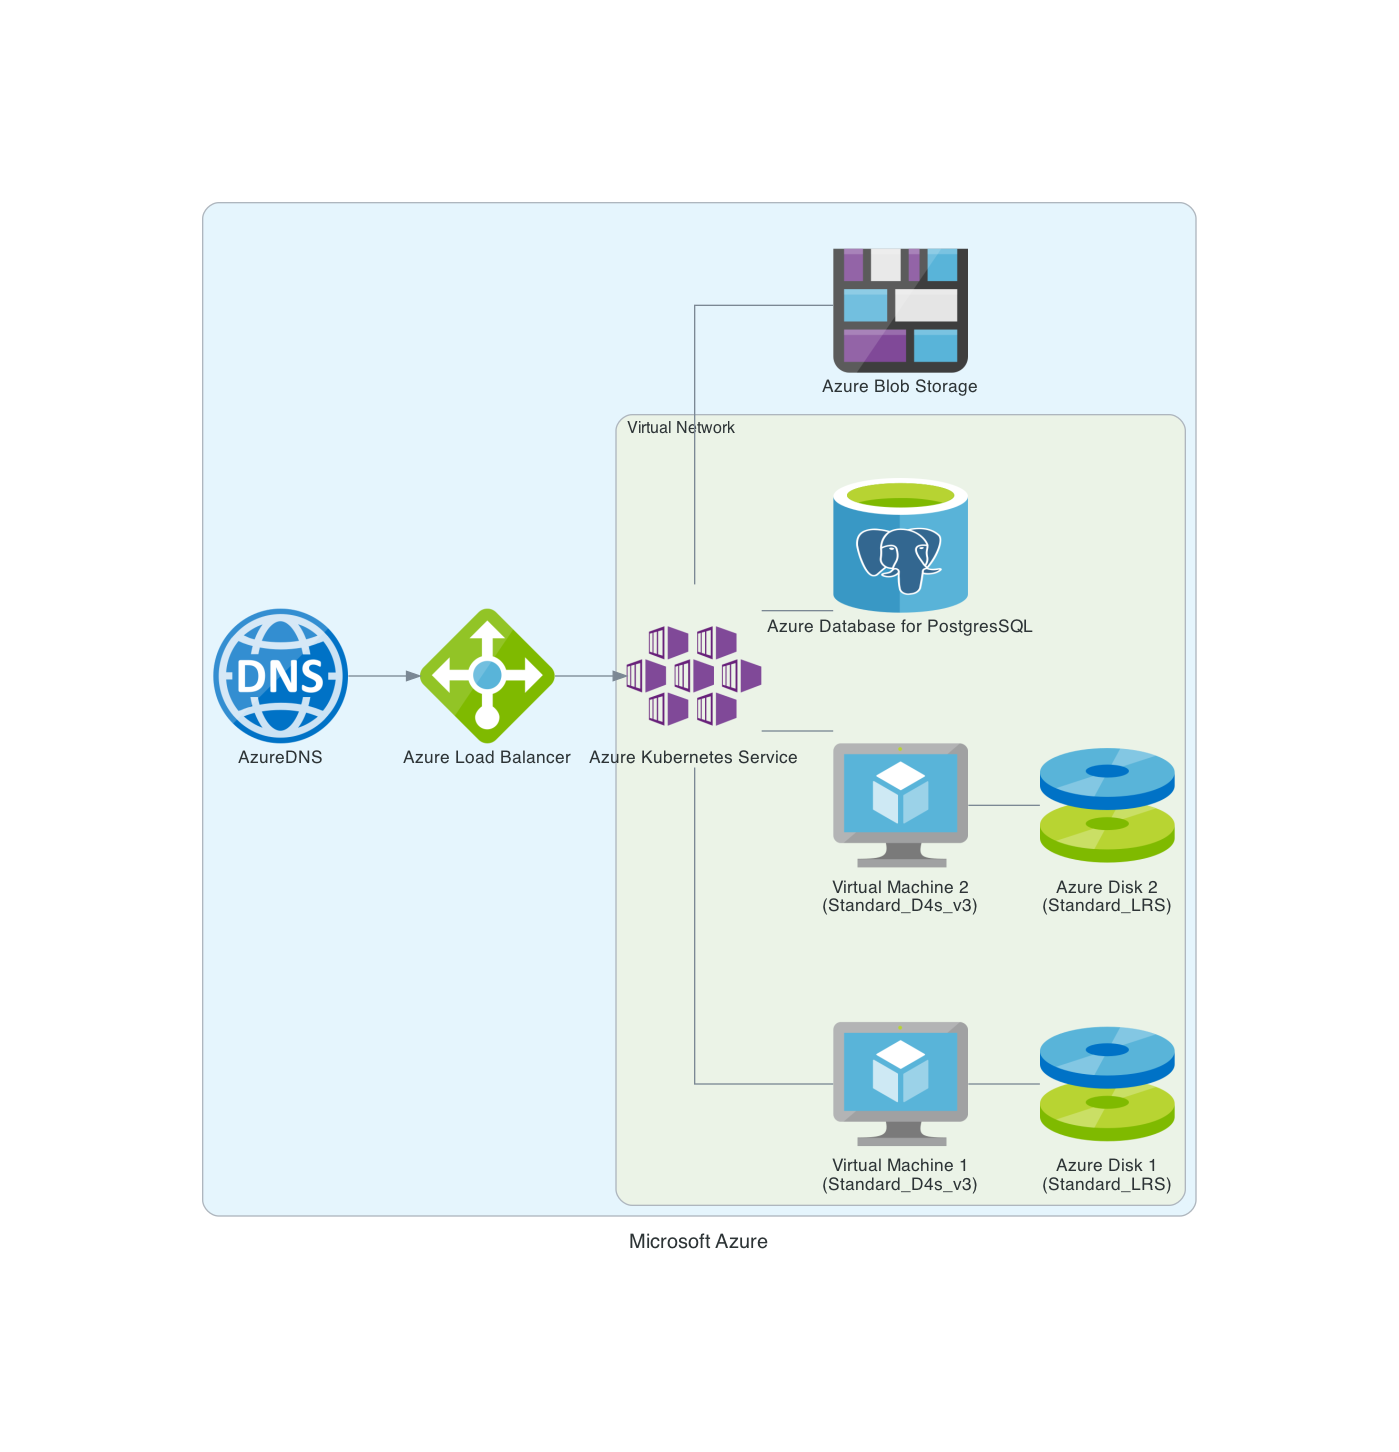
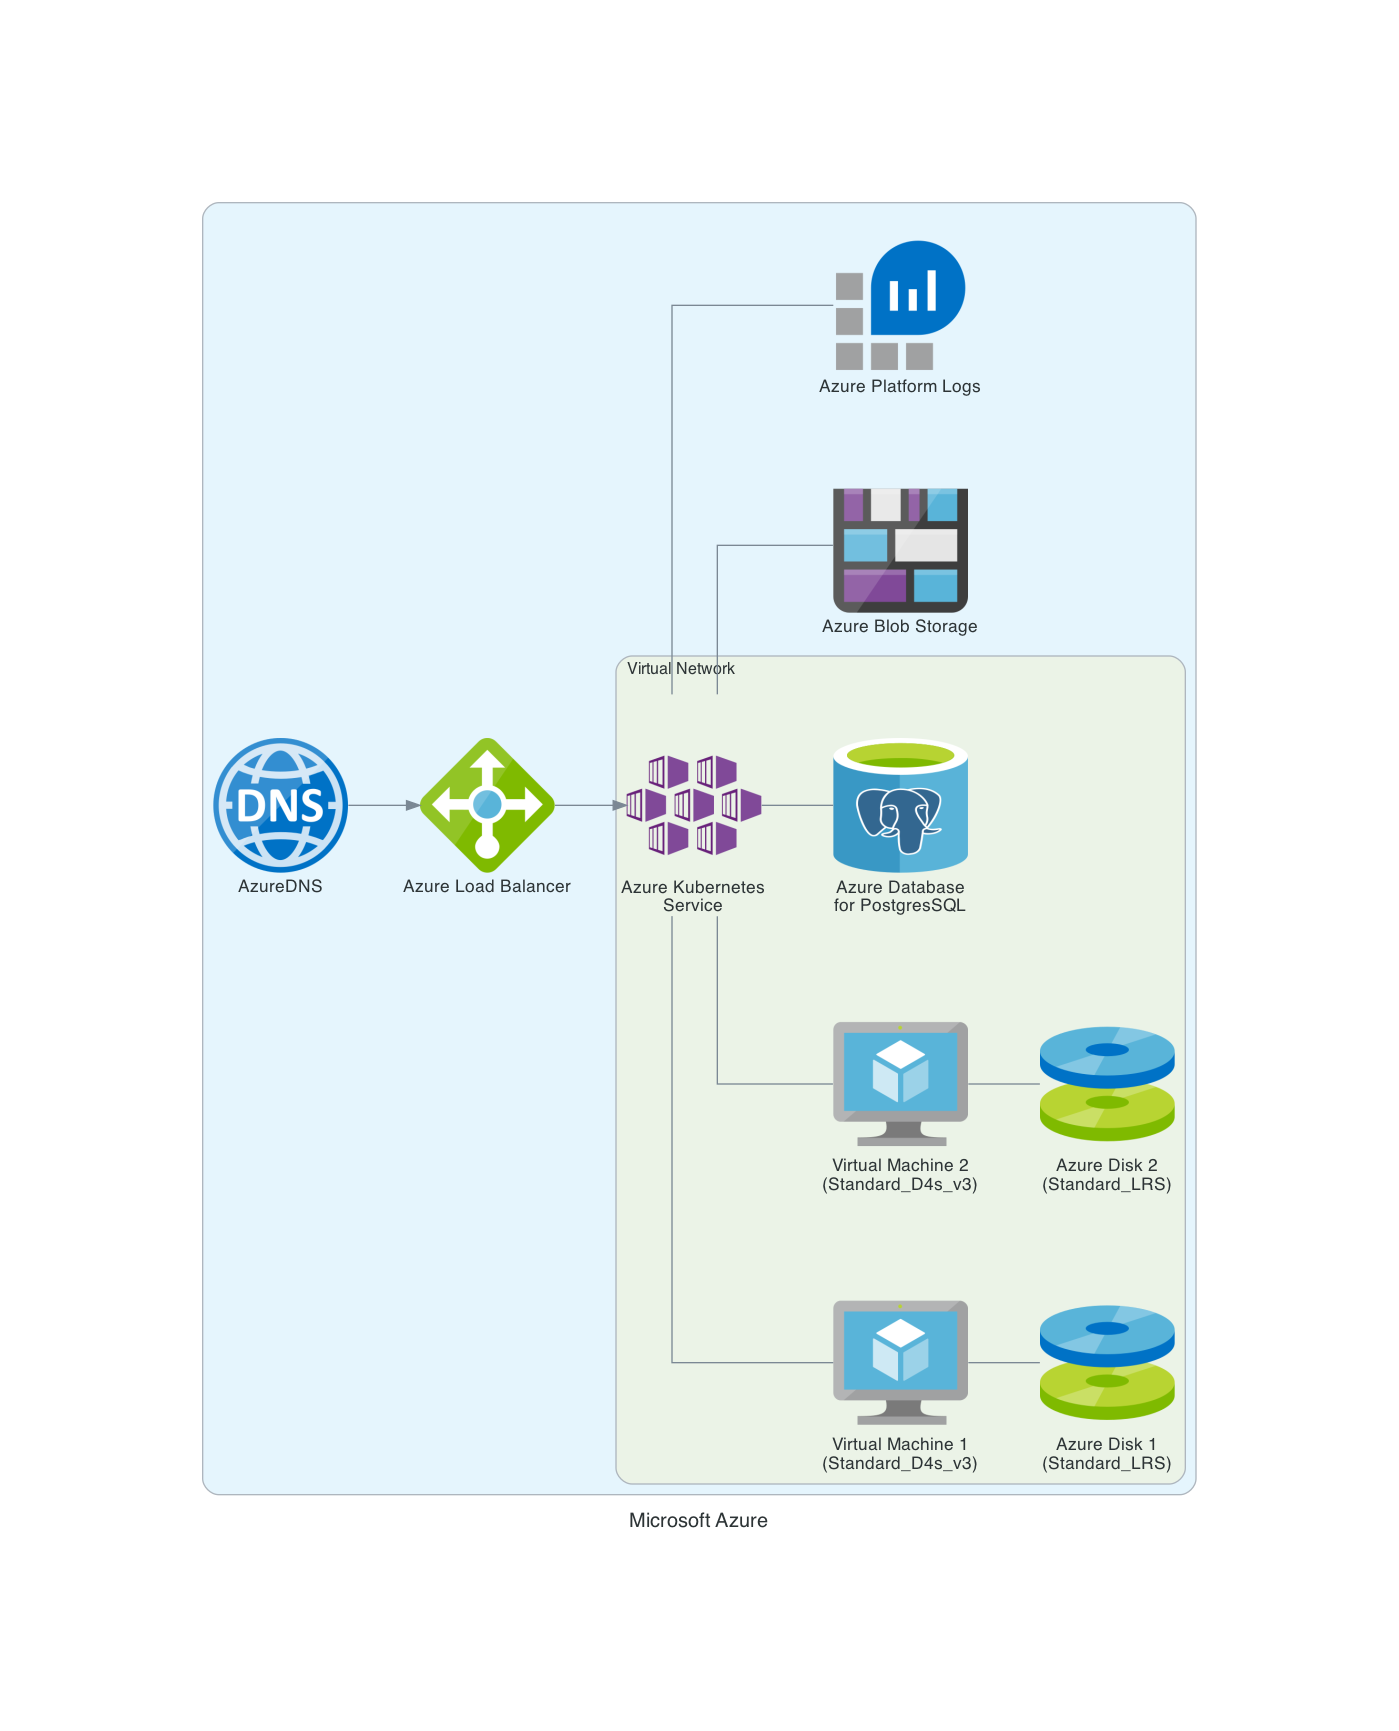
update diagrams

diff --git a/static/diagrams/gen.py b/static/diagrams/gen.py
@@ -20,6 +20,7 @@ from diagrams.aws.network import ELB, Route53
 from diagrams.aws.storage import EBS, S3
 from diagrams.aws.compute import EC2, EKS
 from diagrams.aws.database import RDS
+from diagrams.aws.management import Cloudwatch
 
 # Azure
 from diagrams.azure.network import LoadBalancers
@@ -27,6 +28,7 @@ from diagrams.azure.network import DNSZones
 from diagrams.azure.compute import VM, Disks, AKS
 from diagrams.azure.database import DatabaseForPostgresqlServers
 from diagrams.azure.storage import BlobStorage
+from diagrams.azure.analytics import LogAnalyticsWorkspaces
 
 # GCP
 from diagrams.gcp.network import LoadBalancing
@@ -34,6 +36,7 @@ from diagrams.gcp.storage import PersistentDisk, GCS
 from diagrams.gcp.network import DNS
 from diagrams.gcp.compute import ComputeEngine, GKE
 from diagrams.gcp.database import SQL
+from diagrams.gcp.management import Logging
 
 def k8s(name):
     with Cluster(name):            
@@ -77,7 +80,7 @@ with Diagram('System Diagram', show=False, filename='sys', outformat='png'):
 with Diagram('Amazon Web Services', show=False, filename='aws', outformat='png'):
     with Cluster(''):
         with Cluster('Virtual Private Cloud'):
-            kube = EKS('Elastic Kubernetes Service')
+            kube = EKS('Elastic Kubernetes\nService')
             instance_1 = EC2('EC2 Instance 1\n(m5.xlarge)')
             disk_1 = EBS('EBS Disk 1\n(gp2)') 
             instance_2 = EC2('EC2 Instance 2\n(m5.xlarge)')
@@ -87,15 +90,16 @@ with Diagram('Amazon Web Services', show=False, filename='aws', outformat='png')
             instance_2 - disk_2
             kube - instance_1
             kube - instance_2
-            kube - RDS('Amazon RDS for PostgresSQL')
+            kube - RDS('Amazon RDS\nfor PostgresSQL')
         
         kube - S3('S3')
+        kube - Cloudwatch('Amazon CloudWatch')
         Route53('Route53') >> ELB('Elastic Load Balancer') >> kube
 
 with Diagram('Microsoft Azure', show=False, filename='aks', outformat='png'):
     with Cluster(''):
         with Cluster('Virtual Network'):
-            kube = AKS('Azure Kubernetes Service')
+            kube = AKS('Azure Kubernetes\nService')
             instance_1 = VM('Virtual Machine 1\n(Standard_D4s_v3)')
             disk_1 = Disks('Azure Disk 1\n(Standard_LRS)') 
             instance_2 = VM('Virtual Machine 2\n(Standard_D4s_v3)')
@@ -105,15 +109,16 @@ with Diagram('Microsoft Azure', show=False, filename='aks', outformat='png'):
             instance_2 - disk_2
             kube - instance_1
             kube - instance_2
-            kube - DatabaseForPostgresqlServers('Azure Database for PostgresSQL')
+            kube - DatabaseForPostgresqlServers('Azure Database\nfor PostgresSQL')
         
         kube - BlobStorage('Azure Blob Storage')
+        kube - LogAnalyticsWorkspaces('Azure Platform Logs')
         DNSZones('AzureDNS') >> LoadBalancers('Azure Load Balancer') >> kube
 
 with Diagram('Google Cloud Platform', show=False, filename='gke', outformat='png'):
     with Cluster(''):
         with Cluster('Virtual Private Cloud'):
-            kube = GKE('Google Kubernetes Engine')
+            kube = GKE('Google Kubernetes\nEngine')
             instance_1 = ComputeEngine('VM Instance 1\n(n1-standard-4)')
             disk_1 = PersistentDisk('Persistent Disk 1\n(pd-standard)') 
             instance_2 = ComputeEngine('VM Instance 2\n(n1-standard-4)')
@@ -123,9 +128,10 @@ with Diagram('Google Cloud Platform', show=False, filename='gke', outformat='png
             instance_2 - disk_2
             kube - instance_1
             kube - instance_2
-            kube - SQL('Cloud SQL for PostgresSQL')
+            kube - SQL('Cloud SQL\nfor PostgresSQL')
 
         kube - GCS('Google Cloud Storage')
+        kube - Logging('Logging')
         DNS('CloudDNS') >> LoadBalancing('TCP Load Balancer') >> kube
 
 
